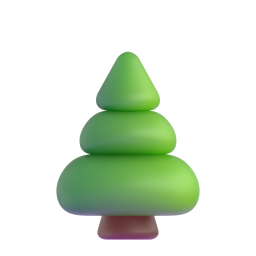
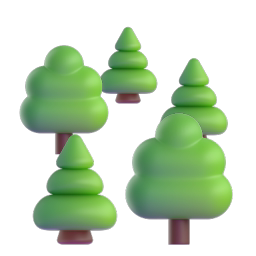
Forest picture with several trees; more build-the-sentence tasks

diff --git a/quiz.js b/quiz.js
@@ -37,7 +37,7 @@ export class Quiz {
   next() {
     this.asked++;
     if (this.requeue.length && this.asked - this.requeue[0].at >= 2) return this.task(this.requeue.shift().item);
-    if (this.sentences.length && this.asked > 2 && Math.random() < 0.3) { const s = pick(this.sentences); return { sentence: s, type: s.gap && Math.random() < 0.5 ? 'sentence_gap' : 'build_sentence' }; }
+    if (this.sentences.length && this.asked > 2 && Math.random() < 0.45) { const s = pick(this.sentences.filter((x) => x !== this.lastSentence).length ? this.sentences.filter((x) => x !== this.lastSentence) : this.sentences); this.lastSentence = s; return { sentence: s, type: s.gap && Math.random() < 0.3 ? 'sentence_gap' : 'build_sentence' }; }
     const met = (i) => !!this.book[i.id], fresh = this.own.filter((i) => !met(i)), known = this.own.filter(met);
     if (fresh.length && (this.newSeen < this.newCap || !known.length) && (this.asked - this.lastNew >= 2 || !known.length)) { this.lastNew = this.asked; this.newSeen++; return this.task(fresh[0]); }   // nya ord ett i taget, med gamla emellan
     const due = this.earlier.filter((i) => isDue(this.book[i.id], this.day) && i !== this.last);

diff --git a/sw.js b/sw.js
@@ -1,7 +1,7 @@
 // Service worker: ser till att en installerad app (hemskärmen) alltid får senaste versionen, och att spelet går att
 // starta utan nät. Kod hämtas alltid färskt från nätet (med kopian som reserv utan nät). Ljud och bilder sparas och
 // återanvänds tills nästa version publiceras, då börjar ett nytt förråd och det gamla tas bort.
-const BUILD = '20261112145429', CACHE = 'lww-' + BUILD;
+const BUILD = '20261112145606', CACHE = 'lww-' + BUILD;
 self.addEventListener('install', () => self.skipWaiting());
 self.addEventListener('activate', (e) => e.waitUntil((async () => {
   for (const k of await caches.keys()) if (k.startsWith('lww-') && k !== CACHE) await caches.delete(k);
